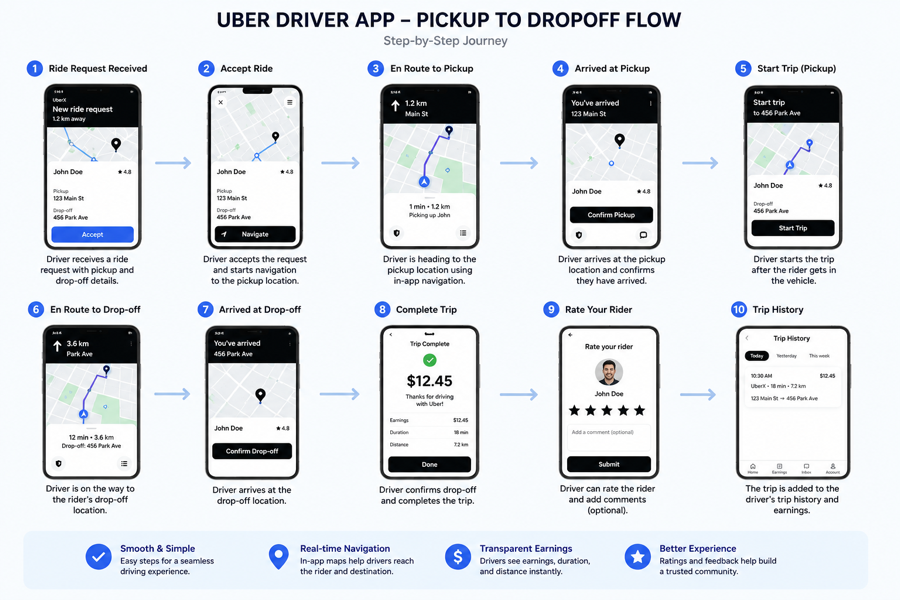
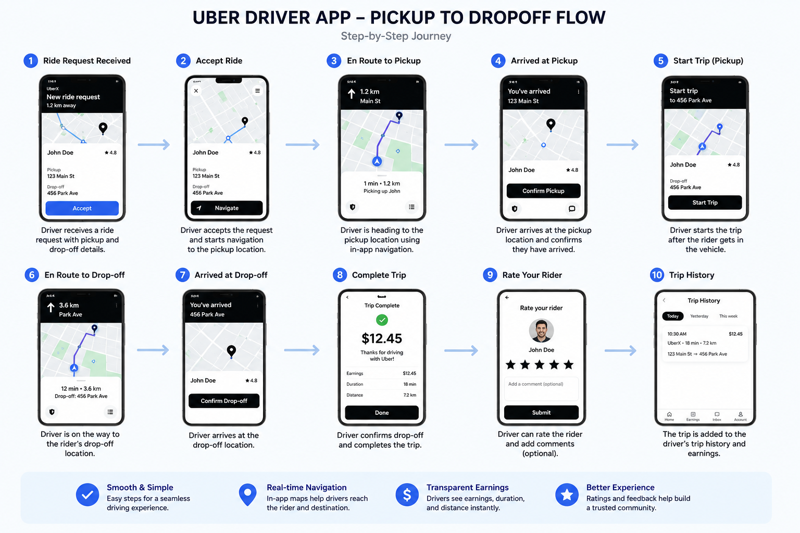
Modern Logistics Driver App Redesign
* **Key features implemented:**
- *lib/delivery/screens/EarningHistoryScreen.dart*: Updated earning history screen with improved data filtering to skip invalid/null entries and prevent duplicate order records
- *.gitignore*: Refreshed ignore rules removing extensive legacy patterns and focusing on essential backup, IDE, log, and temp file exclusions
- *assets/driver_flow_side_ref_small.png*: Updated reference image for driver flow UI with modern design elements
- Enhanced earning data handling with robust null checks and duplicate prevention logic
- Improved UI consistency with updated metric cards and status chips for better information display
- Optimized pagination and data loading performance for earning history lists

Overall improvements focus on cleaner data presentation, enhanced user experience, and more reliable earning tracking functionality.

diff --git a/lib/delivery/screens/EarningHistoryScreen.dart b/lib/delivery/screens/EarningHistoryScreen.dart
@@ -74,12 +74,17 @@ class EarningHistoryScreenState extends State<EarningHistoryScreen> {
           }
           final List<EarningData> fetched = value.data ?? [];
           for (final item in fetched) {
+            // Skip items with null or zero orderId
+            if (item.orderId == null || item.orderId == 0) {
+              continue;
+            }
+            // Skip items with null or zero deliveryManCommission (empty earnings)
+            if (item.deliveryManCommission == null || item.deliveryManCommission == 0) {
+              continue;
+            }
+            // Check for duplicates based on orderId only (most reliable identifier)
             final bool alreadyAdded = earningList.any(
-              (existing) =>
-                  (existing.id != null && existing.id == item.id) ||
-                  (existing.id == null &&
-                      existing.orderId == item.orderId &&
-                      existing.createdAt == item.createdAt),
+              (existing) => existing.orderId == item.orderId,
             );
             if (!alreadyAdded) {
               earningList.add(item);
